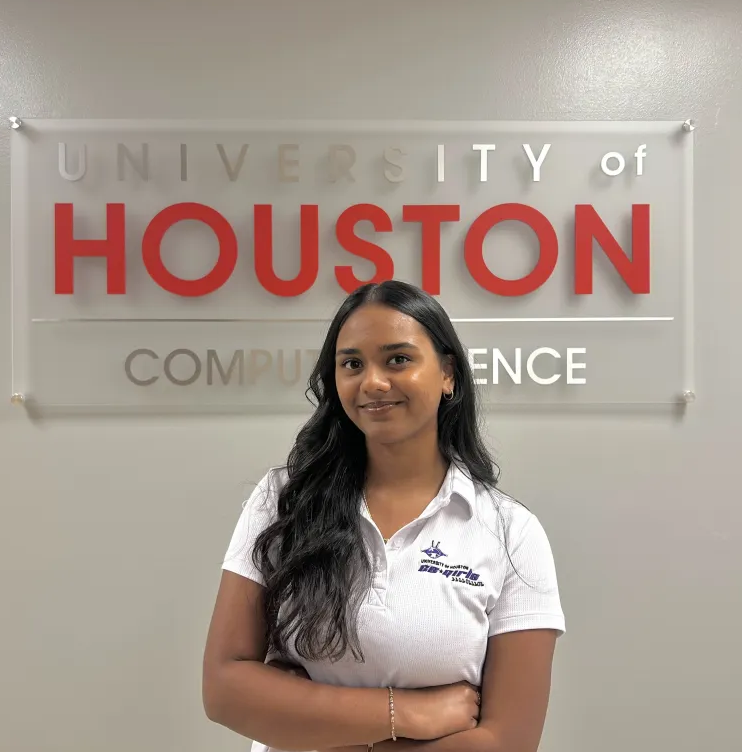
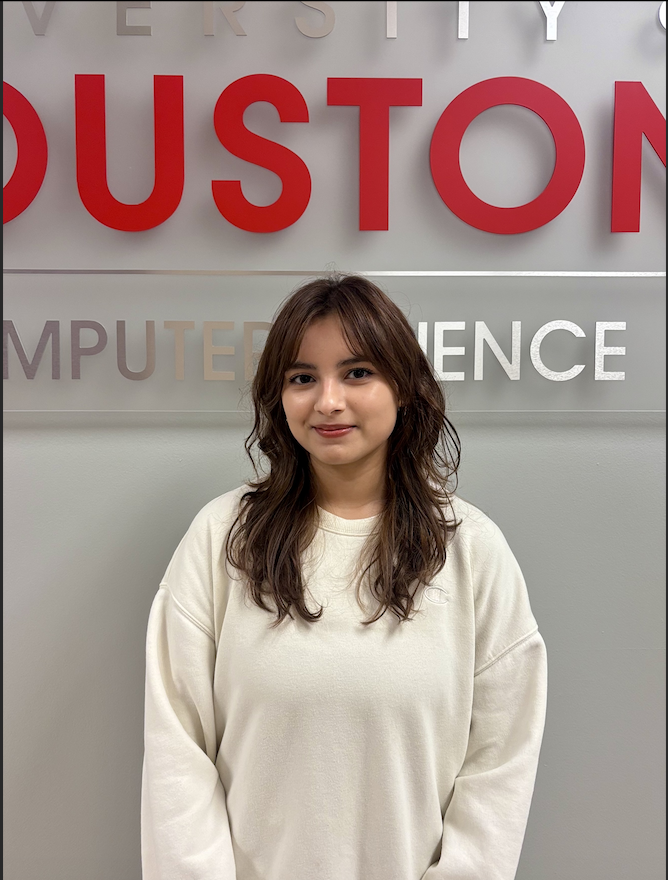
Add Lesley's photo and final updates

diff --git a/src/components/globalVariables.tsx b/src/components/globalVariables.tsx
@@ -14,10 +14,13 @@ export const WEBLINKS = {
 }
 
 // * Pictures used in OfficerMain.tsx
+// Updated Spring 2026 as some officers from Fall 2025 moved around
+
 export const PICLINKS = {
-  PRESIDENT: './Photos/OfficerPics_Fall_2025/President.png',
-  VP_INT: './Photos/OfficerPics_Fall_2025/VP_Internal.png',
+  PRESIDENT: './Photos/OfficerPics_Fall_2025/JOICE_PRES.png',
+  VP_INT: './Photos/OfficerPics_Fall_2025/SHRUTI_VP.png',
   VP_EXT: './Photos/OfficerPics_Fall_2025/VP_External.png',
+  ADVISOR: './Photos/OfficerPics_Fall_2025/NAUMI_ADVISOR.png',
   PROF_DEV_CHAIR_TECH: './Photos/OfficerPics_Fall_2025/Prof_Dev_Chair_Technical.png',
   PROF_DEV_CHAIR_BEHAV: './Photos/OfficerPics_Fall_2025/Prof_Dev_Chair_Behavioral.png',
   MENT_CHAIR: './Photos/OfficerPics_Fall_2025/Mentorship_Chair.png',
@@ -33,15 +36,15 @@ export const PICLINKS = {
 export const OFFICERS = {
   president: {
     name: 'Joice Nasr Mikhael',
-    discord: 'joicem naumi5693',
+    discord: 'joicem',
     linkedin: 'https://www.linkedin.com/in/joice-mikhael/',
-    pic: PICLINKS.VP_INT
+    pic: PICLINKS.PRESIDENT,
   },
   vp_int: {
     name: 'Shruti Yenamagandla',
-    discord: 'shruthi9663 joicem',
+    discord: 'shruthi9663',
     linkedin: 'https://www.linkedin.com/in/shruthi-yenamagandla-23883428b/ https://www.linkedin.com/in/joice-mikhael/',
-    pic: PICLINKS.PROF_DEV_CHAIR_BEHAV,
+    pic: PICLINKS.VP_INT,
   },
   vp_ext: {
     name: 'Kat Rodriguez',
@@ -58,14 +61,14 @@ export const OFFICERS = {
   prof_dev_behav: { // need to finish this up once lesley replies
   name: 'Lesley Bernal',
   discord: 'bmforjk',
-  linkedin: 'www.linkedin.com/in/lesbernal',
-  pic: ' ',
+  linkedin: 'https://www.linkedin.com/in/lesbernal',
+  pic: PICLINKS.PROF_DEV_CHAIR_BEHAV,
   },
   advisor: {
     name: 'Naumi Aparanji',
     discord: 'naumi5693',
     linkedin: 'https://www.linkedin.com/in/naumi-aparanji-364a12214/',
-    pic: PICLINKS.PRESIDENT,
+    pic: PICLINKS.ADVISOR,
   },
   kattis_chair: {
     name: 'Nathalye Gonzalez',

diff --git a/src/components/Footer.tsx b/src/components/Footer.tsx
@@ -21,7 +21,7 @@ const Footer = () => {
           © 2024 Computer Science Girls | Built and Designed By: <a href={WEBLINKS.SCT_GITHUB} target="_blank" rel="noopener noreferrer"><u>{DEVNAME}</u></a>
         </p>
         <p>
-          Edited & Updated By: <a href={WEBLINKS.ZAINAB_LINKEDIN} target="_blank" rel="noopener noreferrer"><u>{UPDATEDBY}</u></a>
+          Redesigned & Updated By: <a href={WEBLINKS.ZAINAB_LINKEDIN} target="_blank" rel="noopener noreferrer"><u>{UPDATEDBY}</u></a>
         </p>
       </div>
     </div>
